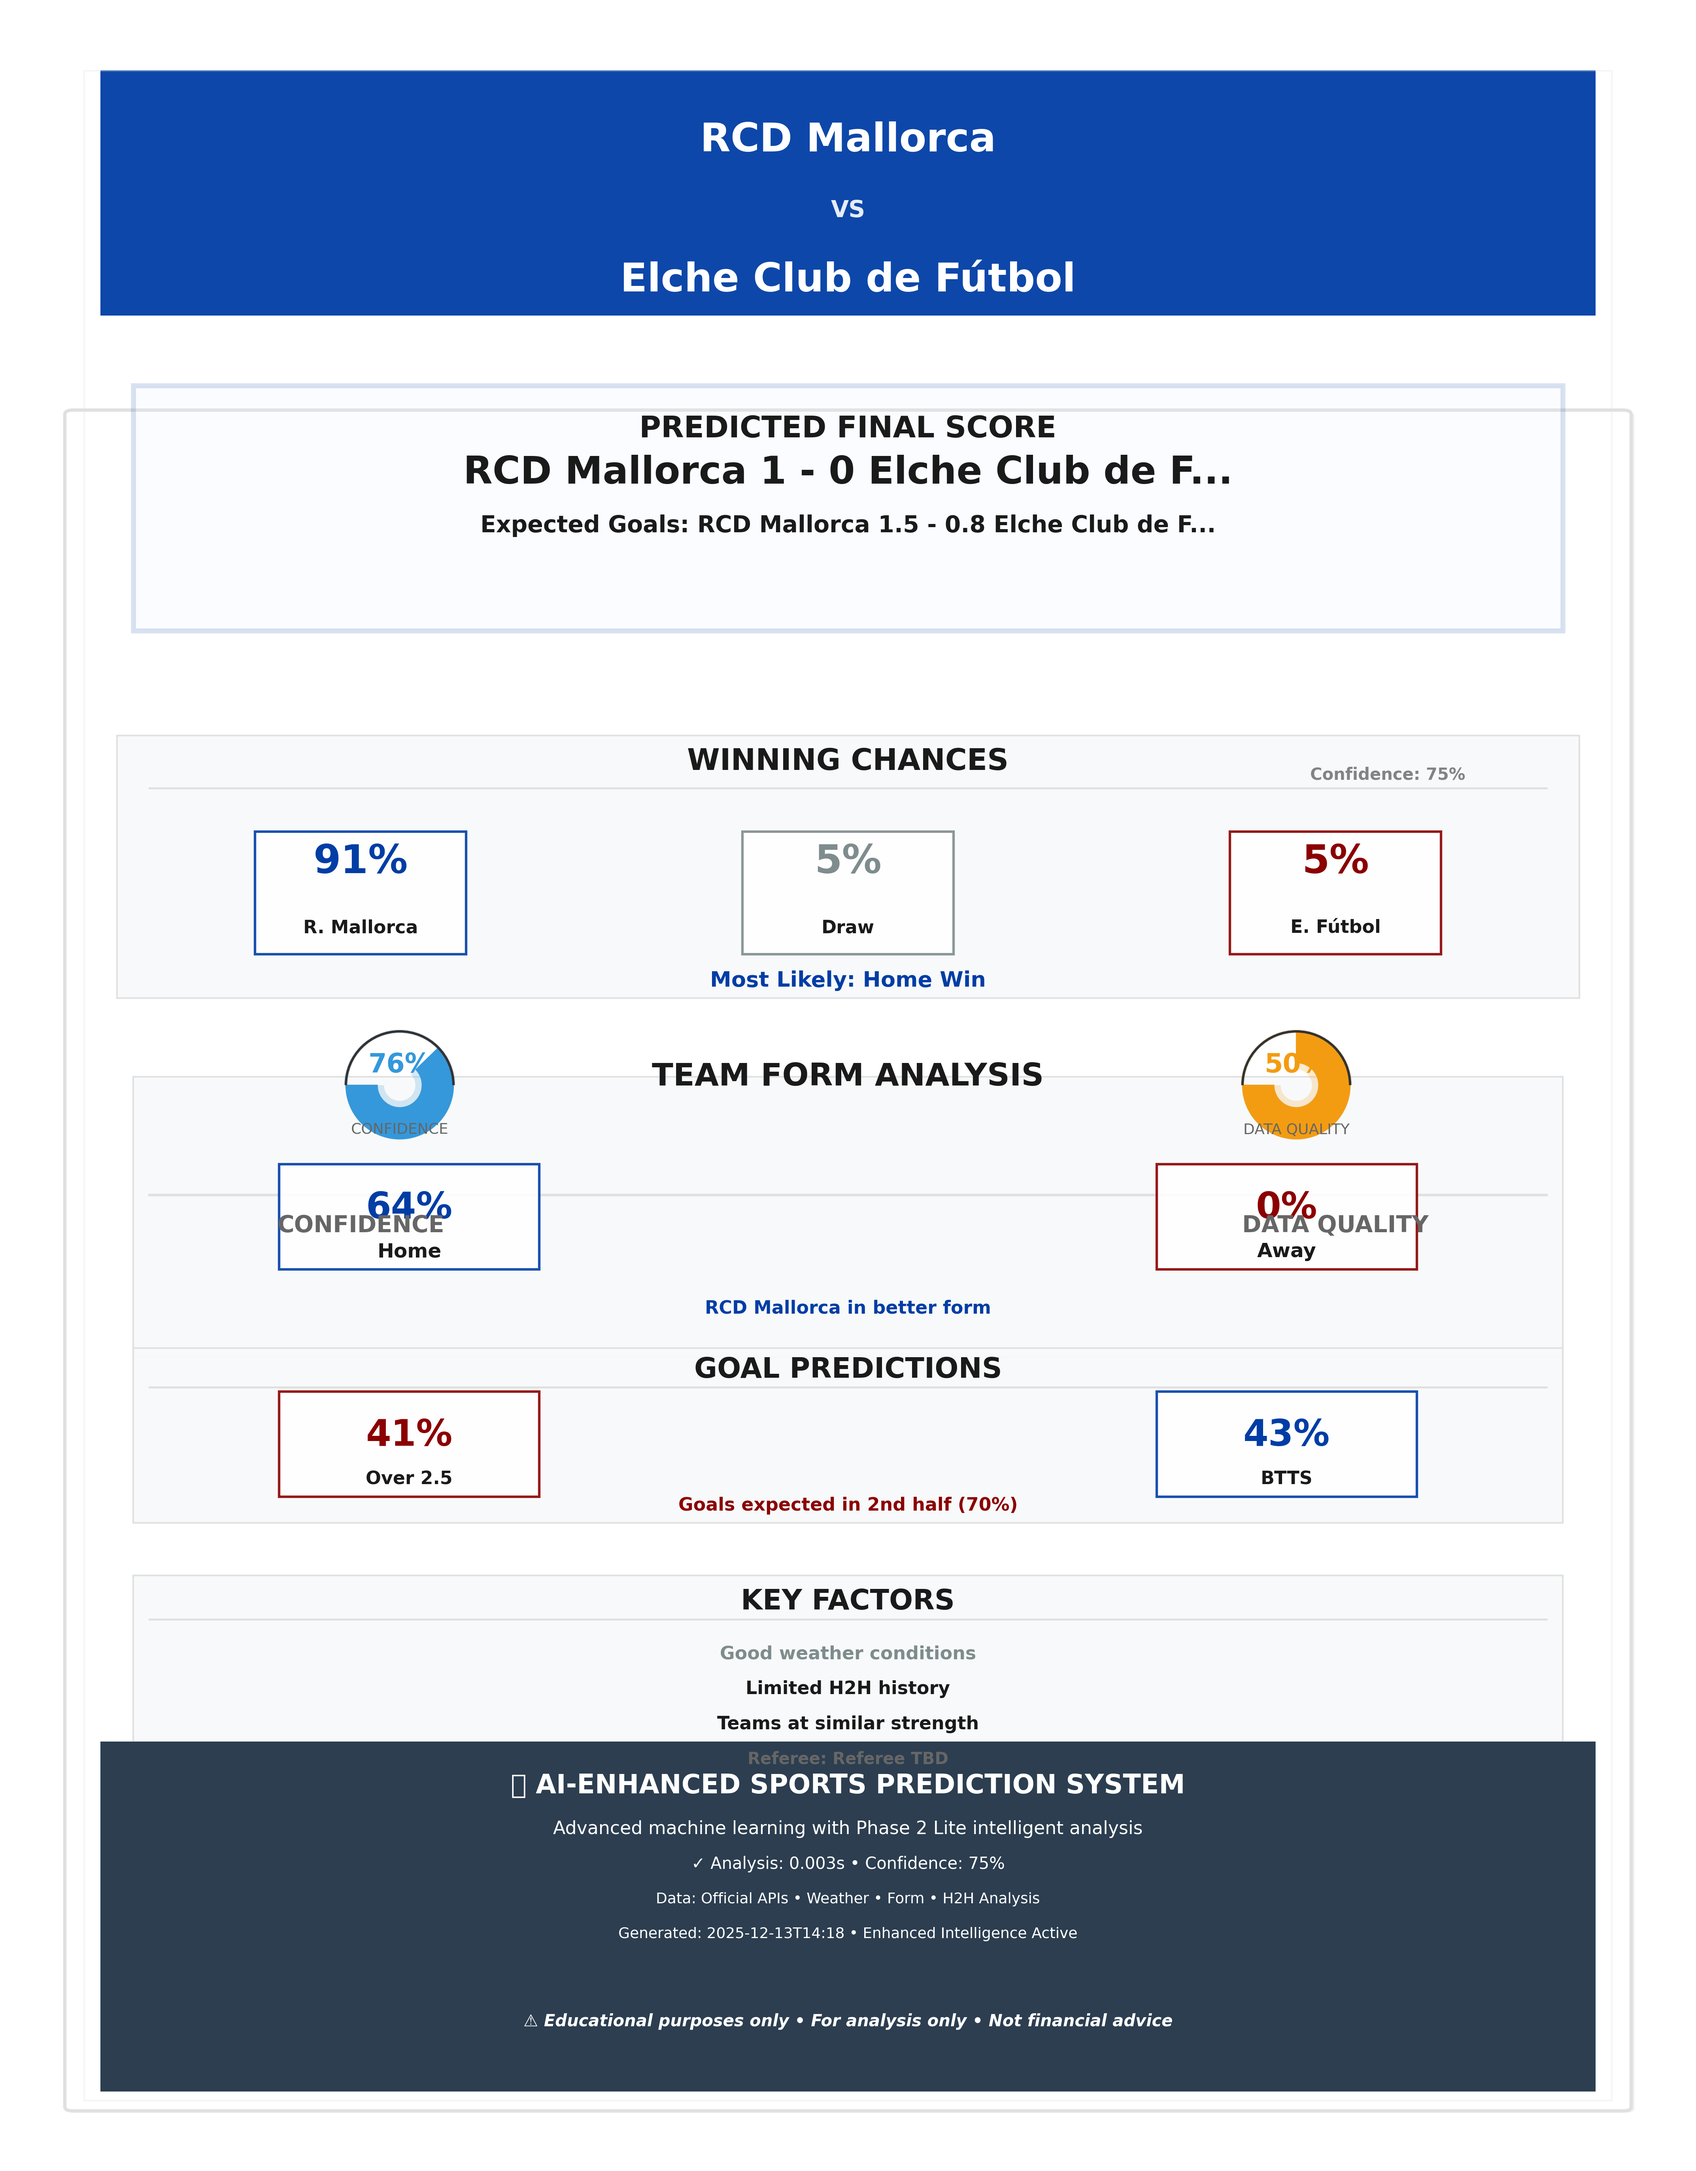
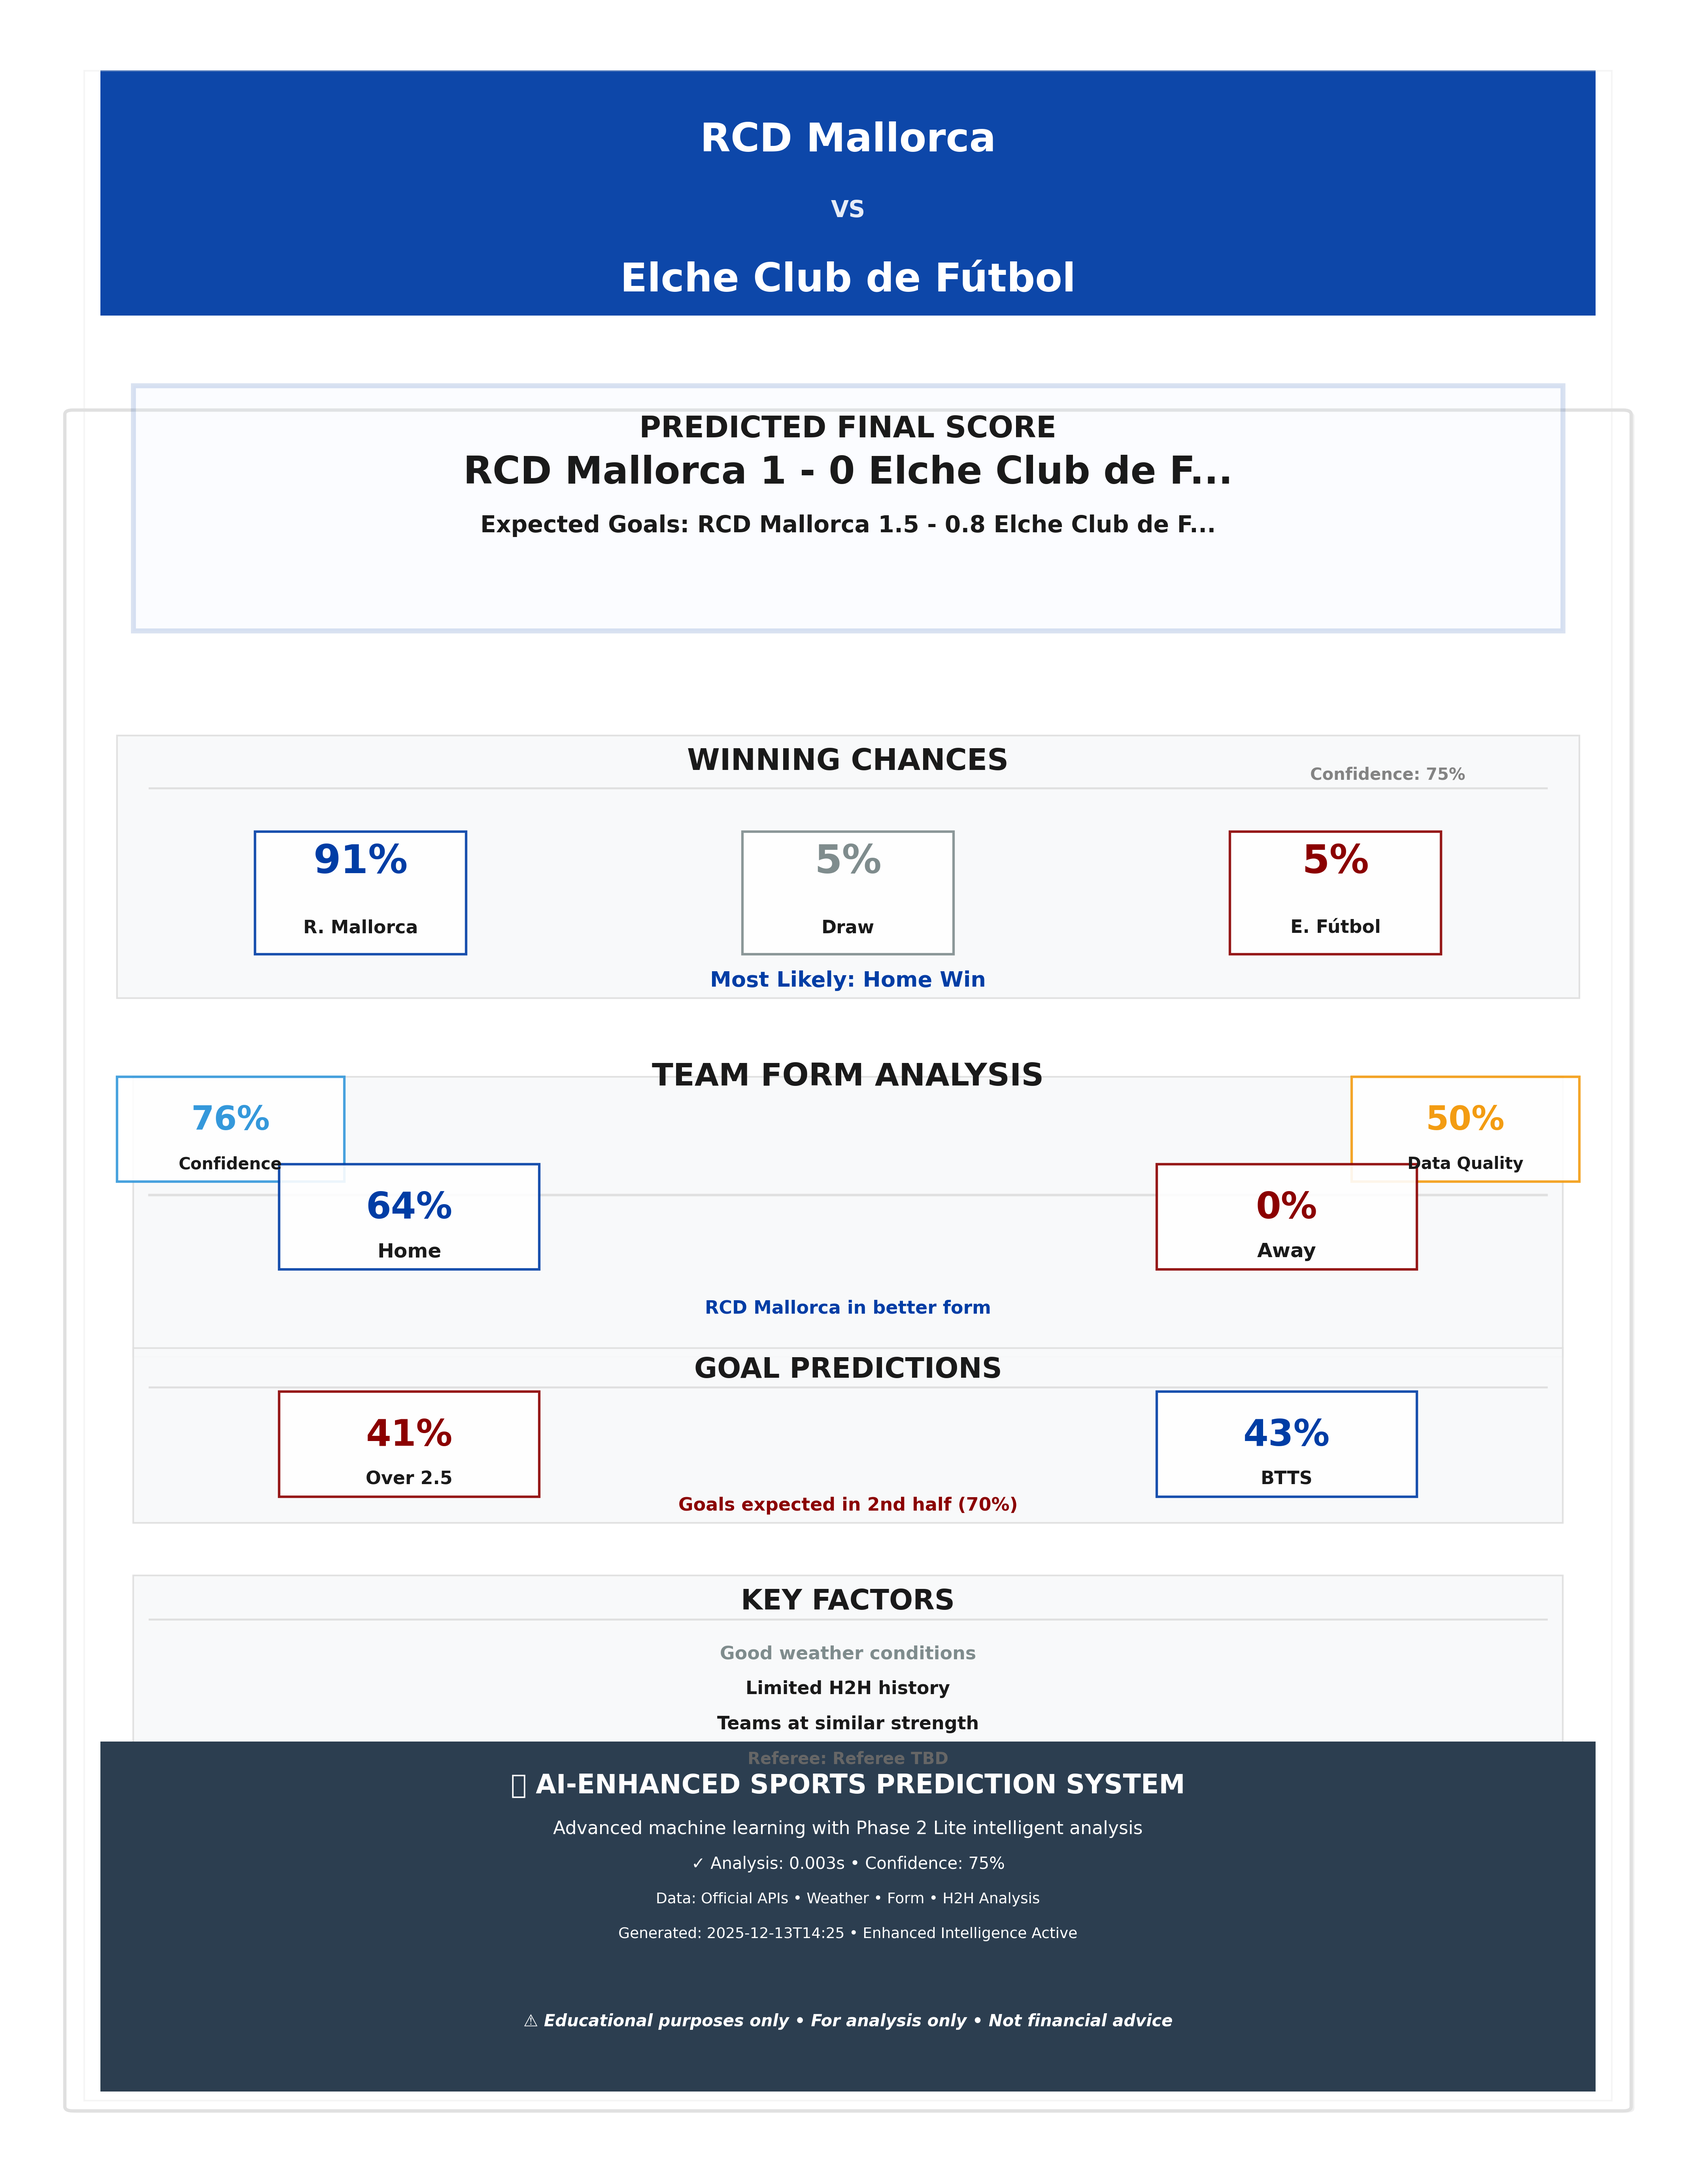
Remove all remaining circular gauges - 100% box-based design for all metrics

diff --git a/generate_fast_reports.py b/generate_fast_reports.py
@@ -1385,23 +1385,30 @@ class SingleMatchGenerator:
                 inset.text(0.5, 0.1, label_text, ha='center', va='center', fontsize=9, 
                           color=colors.get('text_secondary', '#666666'), zorder=4, fontname='DejaVu Sans')
 
-        # Confidence gauge (left)
+        # Confidence and Data Quality boxes (instead of gauges)
         confidence = match_data.get('report_accuracy_probability', 0.65) * 100
         conf_color = ProfessionalDesignSystem.get_color_for_probability(confidence)
-        # Confidence gauge (moved into the Winning Chances band; nudge down to avoid overlapping column text)
-        draw_gauge(2, 11.7, 0.45, confidence, conf_color, label_text='CONFIDENCE', value_text=f"{int(round(confidence))}%")
-        # place the label for the confidence gauge on the main axes (nudged further away from the gauge)
-        ax.text(2, 10.4, 'CONFIDENCE', ha='center', va='center', fontsize=label_fs, 
-               color=colors.get('text_secondary', '#666666'), fontweight='bold', zorder=6)
-
-        # Data quality gauge (right)
+        
         data_quality = match_data.get('data_quality_score', 75.0)
         dq_color = ProfessionalDesignSystem.get_color_for_probability(data_quality)
-        # Data quality gauge (moved into the Winning Chances band; nudge down to avoid overlapping column text)
-        draw_gauge(8, 11.7, 0.45, data_quality, dq_color, label_text='DATA QUALITY', value_text=f"{int(round(data_quality))}%")
-        # place the label for the data-quality gauge on the main axes (nudged further away from the gauge)
-        ax.text(8, 10.4, 'DATA QUALITY', ha='center', va='center', fontsize=label_fs, 
-               color=colors.get('text_secondary', '#666666'), fontweight='bold', zorder=6)
+        
+        # Confidence box (left)
+        conf_bg = Rectangle((1.2 - 0.7, 10.9), 1.4, 1.2, facecolor='white', 
+                           edgecolor=conf_color, linewidth=1.5, zorder=2, alpha=0.9)
+        ax.add_patch(conf_bg)
+        ax.text(1.2, 11.6, f"{int(round(confidence))}%", ha='center', va='center', fontsize=20, 
+               fontweight='bold', color=conf_color, zorder=3, fontname='DejaVu Sans')
+        ax.text(1.2, 11.1, 'Confidence', ha='center', va='center', fontsize=10, 
+               color=colors.get('text_main', '#1A1A1A'), fontweight='600', zorder=3, fontname='DejaVu Sans')
+        
+        # Data Quality box (right)
+        dq_bg = Rectangle((8.8 - 0.7, 10.9), 1.4, 1.2, facecolor='white', 
+                         edgecolor=dq_color, linewidth=1.5, zorder=2, alpha=0.9)
+        ax.add_patch(dq_bg)
+        ax.text(8.8, 11.6, f"{int(round(data_quality))}%", ha='center', va='center', fontsize=20, 
+               fontweight='bold', color=dq_color, zorder=3, fontname='DejaVu Sans')
+        ax.text(8.8, 11.1, 'Data Quality', ha='center', va='center', fontsize=10, 
+               color=colors.get('text_main', '#1A1A1A'), fontweight='600', zorder=3, fontname='DejaVu Sans')
 
         # =================================================================
         # WINNING CHANCES SECTION - Clean 3-column layout

diff --git a/reports/formats/markdown/rcd-mallorca_vs_elche-club-de-f-tbol_2025-12-13.md b/reports/formats/markdown/rcd-mallorca_vs_elche-club-de-f-tbol_2025-12-13.md
@@ -5,7 +5,7 @@
 - **League:** La Liga
 - **Date & Time:** 2025-12-13 at 15:15
 - **Engine Mode:** Enhanced Intelligence core engine with multi-layer analysis
-- **Prediction Confidence:** **75.6%** (Phase 2 Lite probability of correctness)
+- **Prediction Confidence:** **75.5%** (Phase 2 Lite probability of correctness)
 - **Data Confidence:** 75.0% (75.0% (Good))
 - **Data Quality Score:** 50.0%
 
@@ -58,7 +58,7 @@
 
 ### Win Probabilities
 
- - **RCD Mallorca Win:** 90.9%
+ - **RCD Mallorca Win:** 90.8%
 - **Draw:** 4.6%
 - **Elche Club de Fútbol Win:** 4.6%
 
@@ -189,14 +189,14 @@
 ## ⚠ Risk Assessment
 
 - **Overall Risk Level:** 🟡 MEDIUM RISK
-- **Data Reliability:** 🟠 Limited (60.8)
+- **Data Reliability:** 🟠 Limited (60.7)
 - **Prediction Stability:** Stable
 
 ## 🎯 Confidence Analysis
 
-- **Reliability Score:** 🟠 Limited 60.8 – Limited reliability – supplement with manual review.
+- **Reliability Score:** 🟠 Limited 60.7 – Limited reliability – supplement with manual review.
 - **Confidence Interval Window:** Home 95.3% – 100.0%, Draw 0.0% – 4.7%, Away 0.0% – 4.7%
-- **Calibration Adjustment:** Applied 13.7% shrink toward neutral due to reliability score 60.8. | Accuracy 60.6% → 60.7%
+- **Calibration Adjustment:** Applied 13.8% shrink toward neutral due to reliability score 60.7. | Accuracy 60.6% → 60.6%
 - **Head-to-Head Data Availability:** ⚠ Limited
 - **Recent Form Data:** ⚠ Limited
 - **Enhanced Data Integration:** ⚠ Partial Data
@@ -219,7 +219,7 @@
 - **Prediction Algorithm:** Enhanced Intelligence with 7 Analysis Layers
 - **Data Sources:** Football-Data.org API + Weather API + Referee Database + News Analysis
 - **Analysis Layers:** H2H History, Home/Away Performance, Goal Timing, Player Injuries, Weather, Referee, Team News
-- **Generated:** 2025-12-13T14:19:56.341854
+- **Generated:** 2025-12-13T14:25:14.245591
 
 ---
 

diff --git a/reports/leagues/la-liga/matches/rcd-mallorca_vs_elche-club-de-f-tbol_2025-12-13/summary.md b/reports/leagues/la-liga/matches/rcd-mallorca_vs_elche-club-de-f-tbol_2025-12-13/summary.md
@@ -5,7 +5,7 @@
 - **League:** La Liga
 - **Date & Time:** 2025-12-13 at 15:15
 - **Engine Mode:** Enhanced Intelligence core engine with multi-layer analysis
-- **Prediction Confidence:** **75.6%** (Phase 2 Lite probability of correctness)
+- **Prediction Confidence:** **75.5%** (Phase 2 Lite probability of correctness)
 - **Data Confidence:** 75.0% (75.0% (Good))
 - **Data Quality Score:** 50.0%
 
@@ -58,7 +58,7 @@
 
 ### Win Probabilities
 
- - **RCD Mallorca Win:** 90.9%
+ - **RCD Mallorca Win:** 90.8%
 - **Draw:** 4.6%
 - **Elche Club de Fútbol Win:** 4.6%
 
@@ -189,14 +189,14 @@
 ## ⚠ Risk Assessment
 
 - **Overall Risk Level:** 🟡 MEDIUM RISK
-- **Data Reliability:** 🟠 Limited (60.8)
+- **Data Reliability:** 🟠 Limited (60.7)
 - **Prediction Stability:** Stable
 
 ## 🎯 Confidence Analysis
 
-- **Reliability Score:** 🟠 Limited 60.8 – Limited reliability – supplement with manual review.
+- **Reliability Score:** 🟠 Limited 60.7 – Limited reliability – supplement with manual review.
 - **Confidence Interval Window:** Home 95.3% – 100.0%, Draw 0.0% – 4.7%, Away 0.0% – 4.7%
-- **Calibration Adjustment:** Applied 13.7% shrink toward neutral due to reliability score 60.8. | Accuracy 60.6% → 60.7%
+- **Calibration Adjustment:** Applied 13.8% shrink toward neutral due to reliability score 60.7. | Accuracy 60.6% → 60.6%
 - **Head-to-Head Data Availability:** ⚠ Limited
 - **Recent Form Data:** ⚠ Limited
 - **Enhanced Data Integration:** ⚠ Partial Data
@@ -219,7 +219,7 @@
 - **Prediction Algorithm:** Enhanced Intelligence with 7 Analysis Layers
 - **Data Sources:** Football-Data.org API + Weather API + Referee Database + News Analysis
 - **Analysis Layers:** H2H History, Home/Away Performance, Goal Timing, Player Injuries, Weather, Referee, Team News
-- **Generated:** 2025-12-13T14:19:56.341854
+- **Generated:** 2025-12-13T14:25:14.245591
 
 ---
 
